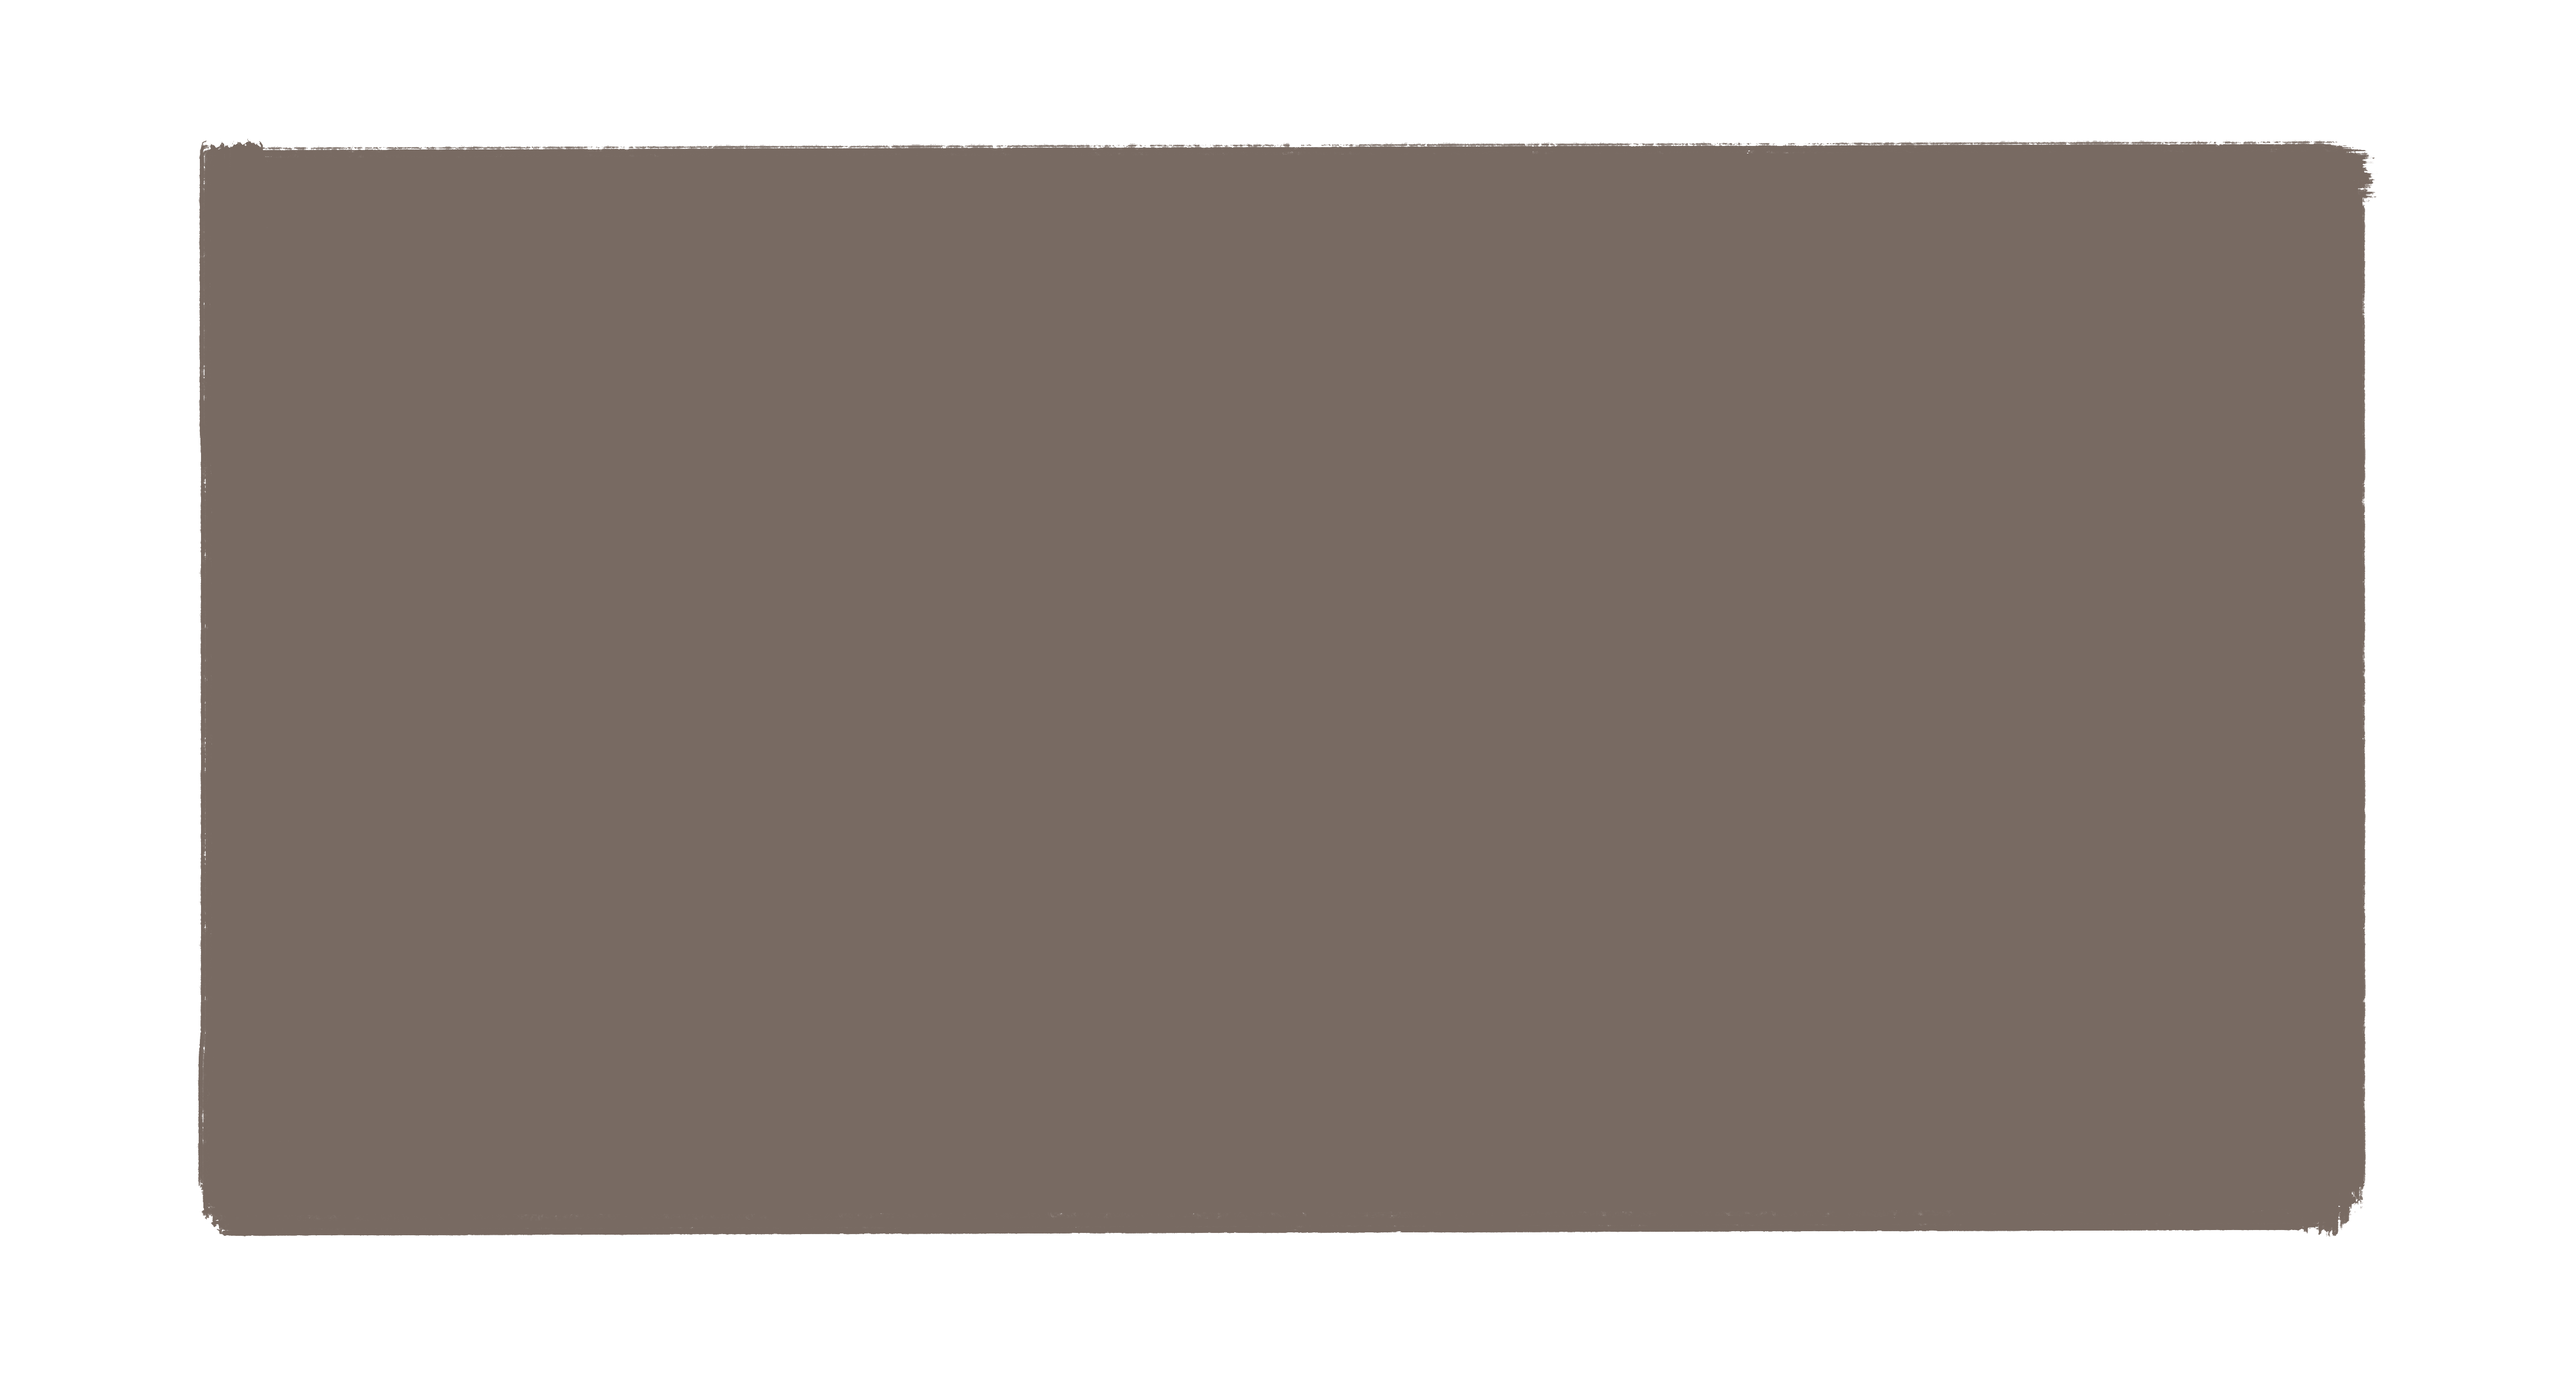
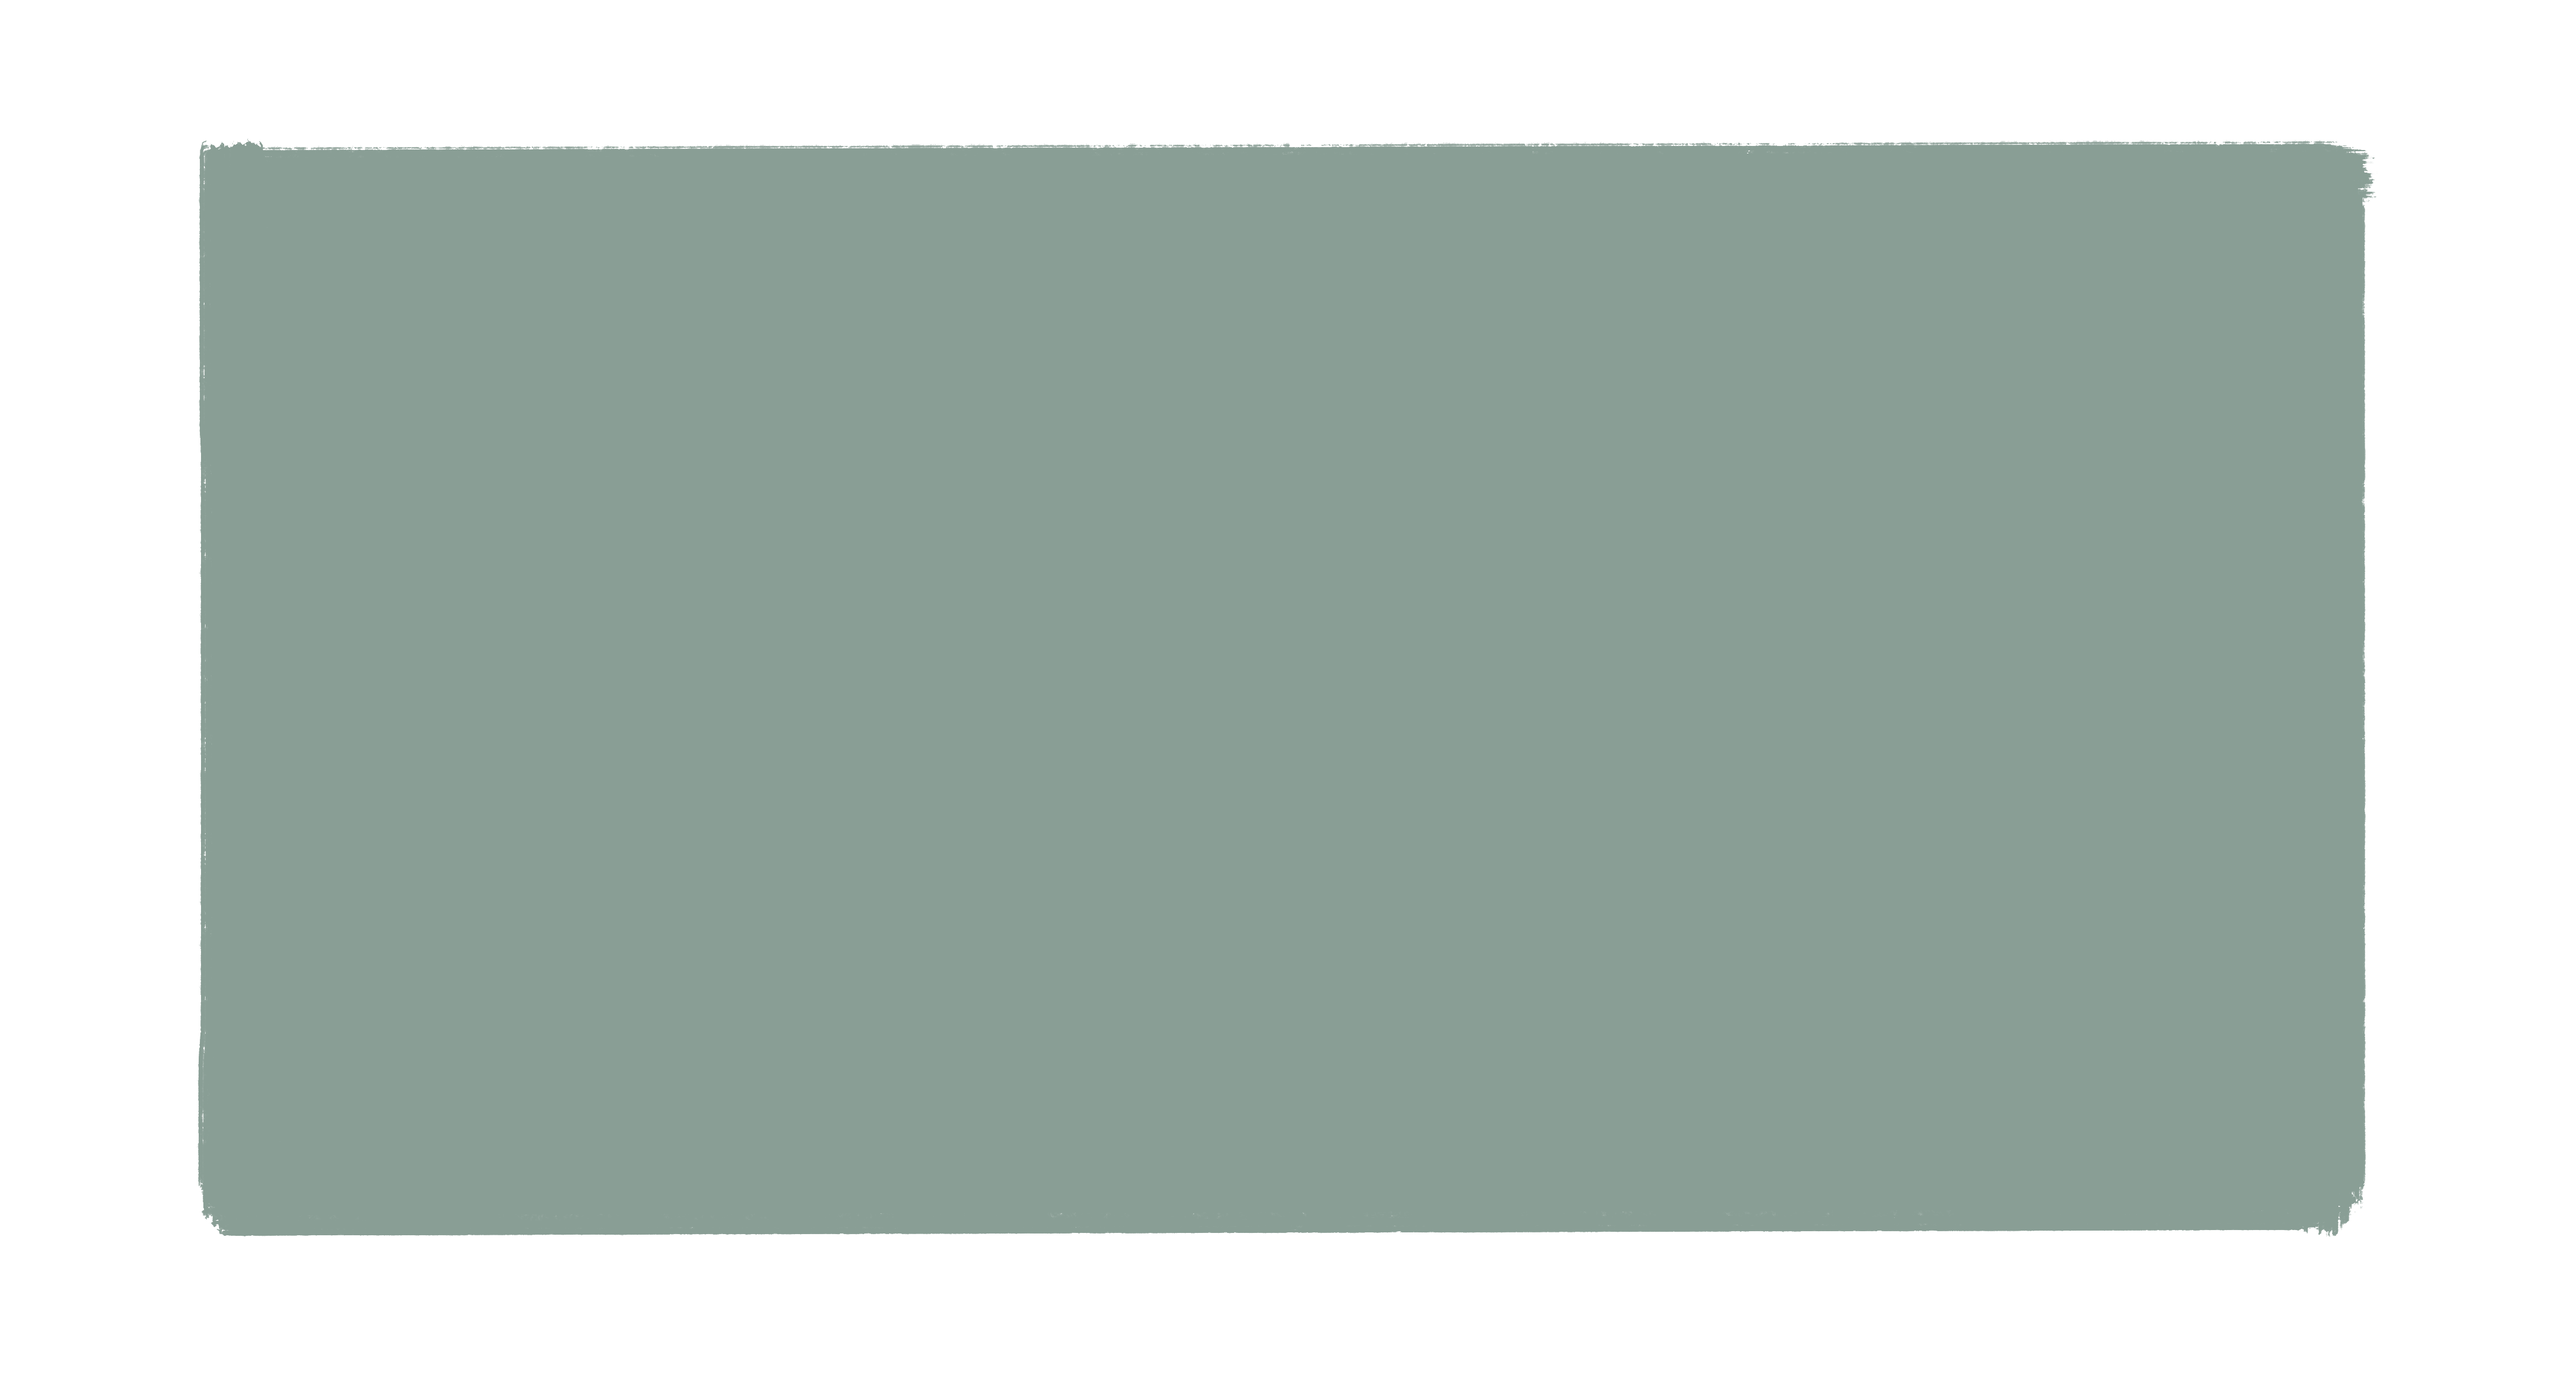
added new files for the new colour pallet, changed position of title and portfolio bloack

diff --git a/index.html b/index.html
@@ -23,7 +23,7 @@
 	<div class="home-body">
 		
 		<h1 class="chloe-smart">Chloe Smart</h1>
-		<img class="spots" src="spots.jpg" alt="abstract spots">
+		<img class="spots" src="spots-blue.png" alt="abstract spots">
 		
 	</div>
 	
@@ -46,8 +46,10 @@
 		
 		<div class="project-1">
 			
-			<p class="project-1-box">Project 1</p>
 			<img class="project-1-box-color" src="box-1.png" alt="coloured box">
+			
+			<p class="project-1-box">Project 1</p>
+			
 			<p class="project-description-1">this is a description of the project blah blah blah blah .........</p>
 			
 			
@@ -55,8 +57,10 @@
 	
 	<div class="project-2">
 		
-		<p class="project-2-box">Project 2</p>
 		<img class="project-2-box-color" src="box-2.png" alt="coloured box">
+		
+		<p class="project-2-box">Project 2</p>
+		
 		<p class="project-description-1">this is a description of the project blah blah blah blah .........</p>
 		
 		
@@ -65,8 +69,10 @@
 	
 	<div class="project-3">
 		
-		<p class="project-3-box">Project 3</p>
 		<img class="project-3-box-color" src="box-3.png" alt="coloured box">
+		
+		<p class="project-3-box">Project 3</p>
+
 		<p class="project-description-1">this is a description of the project blah blah blah blah .........</p>
 		
 		

diff --git a/style.css b/style.css
@@ -8,7 +8,7 @@
 	height: 50px;
 	gap: 50px;
 	padding: 15px;
-	background-color: #786a62;
+	background-color: #9a7b5c;
 }
 
 .home-link {
@@ -140,6 +140,14 @@
 
 .spots {
 	display: flex;
-	width: 1000px;
+	width: 100%;
 	object-fit: cover;
+	background-color: #dac7b2;
+}
+
+.chloe-smart {
+	  position: absolute;
+	  top: 10%;
+	  left: 50%;
+	  transform: translate(-50%, -50%);
 }
